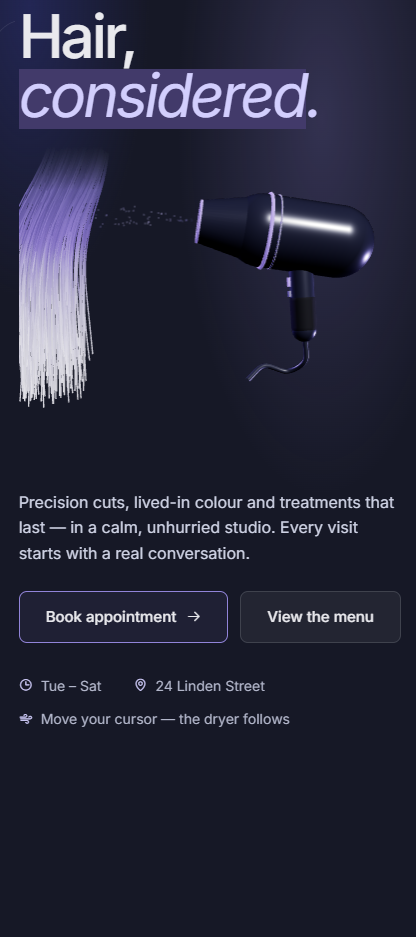
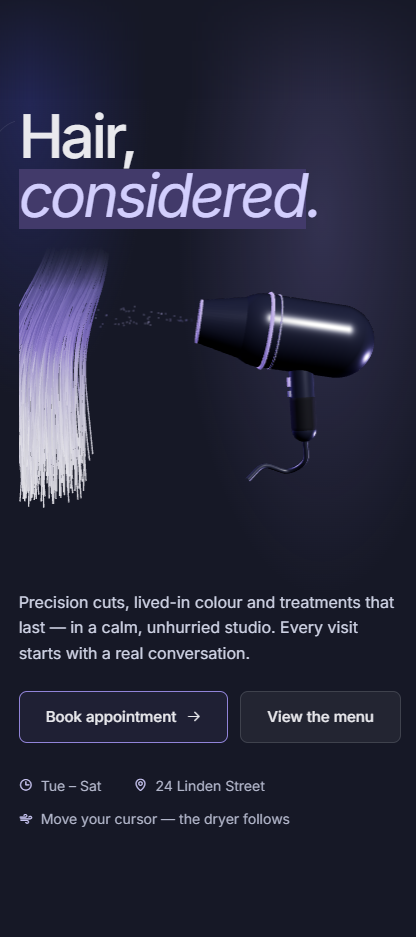
Session 1 follow-up: phone, mobile nav, arrows, shared footer, invoice card
Requested by Mihailo after reviewing the preview:
- Phone: lighter Kobalt shadow (8px). The screen background is now the
  ink colour, so the rounded corners no longer show a light fringe. The
  interim salon screenshot is re-composed with its content vertically
  centred (112 px above, 110 px below; the top extended from its first
  row with a soft fade).
- Mobile nav: between 421 and ~540 px the wordmark came back and pushed
  the CTA up to ~90 px off screen (clipped by .page, so no scrollbar).
  The compact nav (mark only, flags only) now applies up to 600 px, and
  the CTA arrow is dropped at 360 px and below (Serbian label at 320).
- Button arrows sit on the lowercase letters instead of the line box
  centre (Manrope +0.08em, Archivo +0.04em).
- Footer: the dark footer is now shared by both themes (moved to
  site.css); Industrial uses its own colours and the orange CTA. The
  offer label is bold (700). Removed the Industrial-only duplicates.
- Mobile container padding only sets the sides, so the privacy page no
  longer starts under the fixed nav at 640 px and below, and the footer
  rows keep their spacing.
- Invoice Generator card: Mihailo's dashboard screenshot (revenue and
  paid vs unpaid), since the live app needs a login.
- qa:themes: new check that nothing in the nav is outside the viewport
  at 320-900 px; privacy link click moved to the footer bottom bar.
- Docs: shared footer, invoice card decision, offer-highlight variants
[…]

diff --git a/src/styles/themes.css b/src/styles/themes.css
@@ -41,6 +41,7 @@
   --on-ink: #FFFFFF;
   --on-ink-muted: #C9D3EA;
   --on-ink-faint: #A3AECB;
+  --on-ink-line: rgba(255, 255, 255, 0.14);
 
   --accent: #2F5BFF;
   --accent-hover: #1F45E0;
@@ -107,6 +108,7 @@
   --on-ink: #F2F2EF;
   --on-ink-muted: #D4D4CE;
   --on-ink-faint: #B5B5AE;
+  --on-ink-line: rgba(242, 242, 239, 0.18);
 
   --accent: #FF4F00;
   --accent-hover: #E64700;
@@ -152,12 +154,16 @@
 /* The nav CTA is the one orange button. */
 .theme-industrial .nav__actions .mb-btn--primary { background: var(--accent); color: var(--ink); }
 .theme-industrial .nav__actions .mb-btn--primary:hover { background: var(--accent-hover); }
+/* Button arrows: centred on the lowercase letters, not on the line box
+   (Manrope's x-height sits ~0.08em below the box centre, Archivo's ~0.04em). */
+.theme-kobalt .mb-btn__icon { transform: translateY(0.08em); }
+.theme-industrial .mb-btn__icon { transform: translateY(0.04em); }
 
 /* --- Typography ------------------------------------------- */
-.theme-kobalt :is(.hero__title, .section__title, .legal__title, .offer__title, .work-card__name, .svc-card__price) {
+.theme-kobalt :is(.hero__title, .section__title, .legal__title, .offer__title, .work-card__name, .svc-card__price, .footer__cta-title) {
   font-weight: 800; letter-spacing: -0.035em;
 }
-.theme-industrial :is(.hero__title, .section__title, .legal__title, .offer__title, .own__title, .work-card__name) {
+.theme-industrial :is(.hero__title, .section__title, .legal__title, .offer__title, .own__title, .work-card__name, .footer__cta-title) {
   font-weight: 900; font-stretch: 74%; text-transform: uppercase; letter-spacing: -0.005em;
 }
 .theme-industrial .hero__title { line-height: 0.94; }
@@ -198,8 +204,8 @@
 /* --- Sections --------------------------------------------- */
 .theme-kobalt .hero, .theme-kobalt #work { background: var(--section-alt); }
 
-/* Phone frame: hard offset shadow (Kobalt at ~80% of Industrial's) */
-.theme-kobalt .phone { box-shadow: 11px 11px 0 var(--accent); }
+/* Phone frame: hard offset shadow (Kobalt lighter than Industrial's) */
+.theme-kobalt .phone { box-shadow: 8px 8px 0 var(--accent); }
 .theme-industrial .phone { box-shadow: 14px 14px 0 var(--accent); }
 
 /* Cards */
@@ -227,67 +233,6 @@
 .theme-kobalt .contact__channels small { font-size: 0.75rem; color: var(--text-faint); }
 
 /* --- Footer ----------------------------------------------- */
-/* Industrial keeps its original footer (site.css): the parts added for
-   Kobalt are in the DOM for both themes and hidden here. */
-.theme-industrial :is(.footer__cta, .footer__heading, .footer__extra, .footer__bottom) { display: none; }
-.theme-industrial .footer__group { display: contents; }
-
-/* Kobalt: dark footer — call to action, columns, bottom bar. */
-.theme-kobalt .footer {
-  --footer-line: rgba(255, 255, 255, 0.14);
-  --focus-ring: var(--accent-on-ink);
-  padding: 0; border-top: 0; background: var(--ink); color: var(--on-ink-muted);
-}
-/* Rows without side padding, so the dividing lines line up with the content */
-.theme-kobalt .footer > .container {
-  width: calc(100% - 2 * var(--space-6)); max-width: calc(var(--container-xl) - 2 * var(--space-6));
-  padding-left: 0; padding-right: 0;
-}
-.theme-kobalt .footer__cta {
-  display: flex; flex-wrap: wrap; align-items: center; justify-content: space-between; gap: var(--space-6);
-  padding: var(--space-9) 0 var(--space-8);
-}
-.theme-kobalt .footer__cta-title {
-  font: 800 clamp(1.75rem, 1.3rem + 1.6vw, 2.75rem)/1.08 var(--font-display); letter-spacing: -0.035em; color: var(--on-ink);
-}
-.theme-kobalt .footer__offer { margin-top: var(--space-3); font: var(--fw-regular) 1rem/1.5 var(--font-sans); color: var(--on-ink-muted); }
-.theme-kobalt .footer__offer b { font-weight: var(--fw-semibold); color: var(--accent-on-ink); }
-
-.theme-kobalt .footer__inner {
-  grid-template-columns: minmax(0, 1.25fr) minmax(0, 0.85fr) minmax(0, 1.5fr); gap: var(--space-8);
-  padding: var(--space-8) 0; border-top: 1px solid var(--footer-line);
-}
-.theme-kobalt .footer__brand .logo { color: var(--on-ink); }
-.theme-kobalt .footer .logo-mark__tile { fill: var(--on-ink); }
-.theme-kobalt .footer .logo-mark__letters { fill: var(--ink); }
-.theme-kobalt .footer__brand p { color: var(--on-ink-muted); }
-.theme-kobalt .footer__heading {
-  margin-bottom: 4px; font: var(--fw-medium) var(--text-xs)/1.4 var(--font-mono);
-  letter-spacing: 0.14em; text-transform: uppercase; color: var(--on-ink-faint);
-}
-.theme-kobalt .footer__meta { grid-template-columns: repeat(2, minmax(max-content, 1fr)); gap: var(--space-6); }
-.theme-kobalt .footer__group { display: grid; gap: 10px; align-content: start; justify-items: start; }
-.theme-kobalt :is(.footer__privacy, .footer__copy) { display: none; }
-.theme-kobalt .footer :is(.footer__links, .footer__meta, .footer__bottom) a { color: var(--on-ink-muted); transition: color var(--dur-fast); }
-.theme-kobalt .footer :is(.footer__links, .footer__meta, .footer__bottom) a:hover { color: var(--on-ink); }
-
-.theme-kobalt .footer .lang-switch { background: transparent; border-color: var(--footer-line); }
-.theme-kobalt .footer .lang-switch__opt { color: var(--on-ink-muted); }
-.theme-kobalt .footer .lang-switch__opt:hover { color: var(--on-ink); }
-.theme-kobalt .footer .lang-switch__opt.is-active { background: var(--on-ink); color: var(--ink); }
-
-.theme-kobalt .footer__bottom {
-  display: flex; flex-wrap: wrap; justify-content: space-between; gap: var(--space-2) var(--space-6);
-  padding: var(--space-5) 0 var(--space-6); border-top: 1px solid var(--footer-line);
-  font: var(--fw-regular) var(--text-sm)/1.4 var(--font-sans); color: var(--on-ink-faint);
-}
-
-@media (max-width: 760px) {
-  .theme-kobalt .footer__cta { padding: var(--space-8) 0 var(--space-7); }
-  .theme-kobalt .footer__inner { grid-template-columns: 1fr; gap: var(--space-6); padding: var(--space-7) 0; }
-  .theme-kobalt .footer__links { grid-template-columns: repeat(2, minmax(0, 1fr)); column-gap: var(--space-6); }
-  .theme-kobalt .footer__links .footer__heading { grid-column: 1 / -1; }
-}
-@media (max-width: 640px) {
-  .theme-kobalt .footer > .container { width: calc(100% - 2 * var(--space-4)); }
-}
+/* Layout and colours are shared (site.css); the CTA is the accent button on both themes. */
+.theme-industrial .footer .mb-btn--primary { background: var(--accent); color: var(--ink); border-color: var(--accent); }
+.theme-industrial .footer .mb-btn--primary:hover { background: var(--accent-hover); border-color: var(--accent-hover); }

diff --git a/src/styles/site.css b/src/styles/site.css
@@ -143,7 +143,7 @@ section[id], #main { scroll-margin-top: 76px; }
   width: min(290px, 100%); aspect-ratio: 9 / 19.5; padding: 10px;
   border-radius: 46px; background: var(--ink); box-shadow: var(--shadow-xl);
 }
-.phone__screen { width: 100%; height: 100%; border-radius: 36px; overflow: hidden; background: var(--surface-2); }
+.phone__screen { width: 100%; height: 100%; border-radius: 36px; overflow: hidden; background: var(--ink); }
 .phone__screen img { display: block; width: 100%; height: 100%; object-fit: cover; object-position: top; }
 
 /* --- Audience --------------------------------------------- */
@@ -313,14 +313,48 @@ section[id], #main { scroll-margin-top: 76px; }
 .legal__section p { margin-top: var(--space-3); font: var(--fw-regular) 1rem/1.7 var(--font-sans); color: var(--text-secondary); }
 
 /* --- Footer ----------------------------------------------- */
-.footer { padding: var(--space-8) 0 var(--space-7); border-top: 1px solid var(--border-default); background: var(--bg-raised); }
-.footer__inner { display: grid; grid-template-columns: 1.3fr 1fr 1fr; gap: var(--space-6); }
-.footer__brand .logo { color: var(--text-primary); }
-.footer__brand p { margin-top: var(--space-3); max-width: 280px; font: var(--fw-regular) var(--text-sm)/1.5 var(--font-sans); color: var(--text-secondary); }
-.footer__links, .footer__meta { display: grid; gap: 10px; align-content: start; justify-items: start; font: var(--fw-regular) var(--text-sm)/1.4 var(--font-sans); }
-.footer__links a, .footer__meta a { color: var(--text-secondary); }
-.footer__links a:hover, .footer__meta a:hover { color: var(--text-primary); }
-.footer__meta > span { color: var(--text-muted); }
+/* Dark band: call to action, columns, bottom bar. */
+.footer { --focus-ring: var(--accent-on-ink); background: var(--ink); color: var(--on-ink-muted); }
+/* Rows without side padding, so the dividing lines line up with the content */
+.footer > .container {
+  width: calc(100% - 2 * var(--space-6)); max-width: calc(var(--container-xl) - 2 * var(--space-6));
+  padding-left: 0; padding-right: 0;
+}
+.footer > .footer__cta {
+  display: flex; flex-wrap: wrap; align-items: center; justify-content: space-between; gap: var(--space-6);
+  padding: var(--space-9) 0 var(--space-8);
+}
+.footer__cta-title { font: var(--fw-semibold) clamp(1.75rem, 1.3rem + 1.6vw, 2.75rem)/1.08 var(--font-display); letter-spacing: -0.025em; color: var(--on-ink); }
+.footer__offer { margin-top: var(--space-3); font: var(--fw-regular) 1rem/1.5 var(--font-sans); color: var(--on-ink-muted); }
+.footer__offer b { font-weight: var(--fw-bold); color: var(--accent-on-ink); }
+
+.footer > .footer__inner {
+  display: grid; grid-template-columns: minmax(0, 1.25fr) minmax(0, 0.85fr) minmax(0, 1.5fr); gap: var(--space-8);
+  padding: var(--space-8) 0; border-top: 1px solid var(--on-ink-line);
+}
+.footer__brand .logo { color: var(--on-ink); }
+.footer .logo-mark__tile { fill: var(--on-ink); }
+.footer .logo-mark__letters { fill: var(--ink); }
+.footer__brand p { margin-top: var(--space-3); max-width: 280px; font: var(--fw-regular) var(--text-sm)/1.5 var(--font-sans); color: var(--on-ink-muted); }
+.footer__heading {
+  margin-bottom: 4px; font: var(--fw-medium) var(--text-xs)/1.4 var(--font-mono);
+  letter-spacing: 0.14em; text-transform: uppercase; color: var(--on-ink-faint);
+}
+.footer__links, .footer__group { display: grid; gap: 10px; align-content: start; justify-items: start; font: var(--fw-regular) var(--text-sm)/1.4 var(--font-sans); }
+.footer__meta { display: grid; grid-template-columns: repeat(2, minmax(max-content, 1fr)); gap: var(--space-6); align-content: start; }
+.footer__links a, .footer__group > a, .footer__bottom a { color: var(--on-ink-muted); transition: color var(--dur-fast); }
+.footer__links a:hover, .footer__group > a:hover, .footer__bottom a:hover { color: var(--on-ink); }
+
+.footer .lang-switch { background: transparent; border-color: var(--on-ink-line); }
+.footer .lang-switch__opt { color: var(--on-ink-muted); }
+.footer .lang-switch__opt:hover { color: var(--on-ink); }
+.footer .lang-switch__opt.is-active { background: var(--on-ink); color: var(--ink); }
+
+.footer > .footer__bottom {
+  display: flex; flex-wrap: wrap; justify-content: space-between; gap: var(--space-2) var(--space-6);
+  padding: var(--space-5) 0 var(--space-6); border-top: 1px solid var(--on-ink-line);
+  font: var(--fw-regular) var(--text-sm)/1.4 var(--font-sans); color: var(--on-ink-faint);
+}
 
 /* --- Responsive ------------------------------------------- */
 @media (max-width: 1080px) {
@@ -346,18 +380,26 @@ section[id], #main { scroll-margin-top: 76px; }
 @media (max-width: 760px) {
   .section { padding: var(--space-9) 0; }
   .steps, .svc-details, .split { grid-template-columns: 1fr; }
-  .footer__inner { grid-template-columns: 1fr; }
+  .footer > .footer__cta { padding: var(--space-8) 0 var(--space-7); }
+  .footer > .footer__inner { grid-template-columns: 1fr; gap: var(--space-6); padding: var(--space-7) 0; }
+  .footer__links { grid-template-columns: repeat(2, minmax(0, 1fr)); column-gap: var(--space-6); }
+  .footer__links .footer__heading { grid-column: 1 / -1; }
   .offer { padding: var(--space-6); }
 }
 @media (max-width: 640px) {
-  .container, .nav__inner { padding: 0 var(--space-4); }
+  .container, .nav__inner { padding-left: var(--space-4); padding-right: var(--space-4); }  /* sides only: .legal and the footer rows keep their vertical padding */
+  .footer > .container { width: calc(100% - 2 * var(--space-4)); }
   .nav__inner { gap: var(--space-3); }
   .audience, .work-grid, .contact__row { grid-template-columns: 1fr; }
   .svc-card, .svc-box, .split__col, .contact__aside { padding: var(--space-5); }
   .own { padding: var(--space-6) var(--space-4); }
 }
-@media (max-width: 420px) {
+/* Compact nav: the wordmark and language codes need ~540px next to the CTA. */
+@media (max-width: 600px) {
   .nav .logo__word { display: none; }
   .nav .lang-switch__code { display: none; }
   .nav .lang-switch__opt { padding: 7px 8px; }
+}
+@media (max-width: 360px) {
+  .nav__actions .mb-btn__icon { display: none; }
 }

diff --git a/src/components/Footer.tsx b/src/components/Footer.tsx
@@ -6,9 +6,6 @@ import { Logo } from "./Logo";
 import { OFFER } from "../data/pricing";
 import { PATHS, sectionHref, useLocale } from "../i18n";
 
-/* TEMP (two themes): Kobalt shows the call to action, column headings,
-   Viber/WhatsApp and the bottom bar; Industrial hides them in themes.css
-   and keeps its original footer. The DOM is the same for both themes. */
 export function Footer() {
   const { locale, page, t } = useLocale();
   const href = (id: string) => sectionHref(locale, page, id);
@@ -39,26 +36,18 @@ export function Footer() {
           <a href={href("process")}>{t.nav.process}</a>
           <a href={href("faq")}>{t.nav.faq}</a>
           <a href={href("contact")}>{t.contact.eyebrow}</a>
-          <a className="footer__privacy" href={PATHS[locale].privacy}>
-            {t.footer.privacy}
-          </a>
         </nav>
         <div className="footer__meta">
           <div className="footer__group">
             <p className="footer__heading">{t.contact.eyebrow}</p>
             <ContactLink kind="email">{t.contact.email}</ContactLink>
-            <ContactLink kind="viber" className="footer__extra">
-              {t.contact.viber}
-            </ContactLink>
-            <ContactLink kind="whatsapp" className="footer__extra">
-              {t.contact.whatsapp}
-            </ContactLink>
+            <ContactLink kind="viber">{t.contact.viber}</ContactLink>
+            <ContactLink kind="whatsapp">{t.contact.whatsapp}</ContactLink>
           </div>
           <div className="footer__group">
             <p className="footer__heading">{t.nav.langLabel}</p>
             <LangSwitch />
           </div>
-          <span className="footer__copy">{t.footer.copy}</span>
         </div>
       </div>
       <div className="container footer__bottom">

diff --git a/CLAUDE.md b/CLAUDE.md
@@ -80,7 +80,7 @@ Read this first in every session. The plan of work, one session per item, is in 
   - scope the CSS with `.theme-kobalt …` / `.theme-industrial …`
   - the DOM must still be identical, because the HTML is prerendered once
   - extra elements exist in both themes and are hidden with CSS in the other one
-- **Kobalt-only so far** (session 1): uppercase hero title with a marker accent, a hard phone shadow, quieter contact hints, and a dark footer (call to action, column headings, Viber/WhatsApp, bottom bar). Industrial hides the extra footer parts and keeps its original footer; the footer is outside `<main>`, so its height differs between the themes.
+- **Kobalt-only so far** (session 1): uppercase Manrope hero title with a marker accent, a lighter hard phone shadow (8px; Industrial 14px), quieter contact hints. The dark footer (call to action, column headings, Viber/WhatsApp, bottom bar) is shared by both themes.
 - **Geometry check:** `qa:themes` compares the themes inside `<main>`: same DOM, section order and grid columns; section heights within 15%. A deliberate difference must be stated in the PR.
 
 ## Branches, previews, PRs
@@ -107,7 +107,7 @@ npm install
 npm run build                    # tsc + build + prerender; lists placeholders left
 npm run qa:leak                  # contact data in dist/? (no browser needed)
 npm run preview                  # serves dist/ on :4173 — run it in the background for the checks below
-npm run qa:themes                # both themes: CLS, overflow, console, geometry, theme propagation, contacts, contrast, focus (~1 min)
+npm run qa:themes                # both themes: CLS, overflow, console, geometry, nav fits 320–900 px, theme propagation, contacts, contrast, focus (~2 min)
 npm run qa:site                  # no-JS, reduced motion, keyboard, FAQ, anchors, language switch, links
 npm run qa:shots -- pages=/,/sr/ widths=375,1440 viewport=1   # screenshots → .qa/ (git-ignored); see the header of scripts/qa/shots.mjs
 node scripts/qa/form.mjs nokey   # form states, build without a Web3Forms key
@@ -115,7 +115,7 @@ VITE_WEB3FORMS_ACCESS_KEY=test npm run build && node scripts/qa/form.mjs key   #
 ```
 - **Look at the screenshots** (open the PNGs) before calling a visual change done. Check 320, 375 and 1440 px, both themes, `/` and `/sr/`; Serbian text is longer.
 - **Baseline** (start of the roadmap):
-  - no horizontal overflow, clean console
+  - no horizontal overflow, clean console; nothing in the nav outside the viewport (`.page` clips overflow, so it would not show as a scrollbar)
   - geometry identical
   - contacts clean
   - lowest contrast 4.68 (Kobalt: the contact hints, deliberately quieter since session 1) / 4.80 (Industrial); keep small text at **≥ 4.5**. Elements hidden in a theme are skipped.
@@ -128,7 +128,7 @@ VITE_WEB3FORMS_ACCESS_KEY=test npm run build && node scripts/qa/form.mjs key   #
 - **Network:** the environment uses a custom allowlist.
   - Allowed (since 4 Oct 2026): `*.mihailobuilds.com` (the live projects, for screenshots), the GitHub API, Google Fonts, npm.
   - Blocked: `vercel.com` and `*.vercel.app`. Run QA locally against `npm run preview` and get the preview URL from the GitHub deployments API. Mihailo can add `*.vercel.app` if a session ever needs to open the preview itself.
-  - `invoice.mihailobuilds.com` redirects to `/login`. Never log in with a real account or create one; ask Mihailo what to show.
+  - `invoice.mihailobuilds.com` redirects to `/login`. Never log in with a real account or create one. Its card uses Mihailo's own dashboard screenshot (`public/projects/invoice.png`).
 
 ## Conventions
 - **CSS:** use theme variables and tokens; no raw colours in `site.css`. Theme-specific rules go in `themes.css`.

diff --git a/docs/ROADMAP.md b/docs/ROADMAP.md
@@ -39,11 +39,14 @@ Statuse ažurira sesija koja završi posao: `todo` → `u toku` → `PR otvoren`
 ## Odluke koje čekaju Mihaila
 
 - **Tema:** Kobalt ili Industrial (posle sesija 1–3 i 6).
+- **Isticanje posebne ponude** (sesija 2), Mihailo je dobio snimke tri varijante:
+  1. traka u boji akcenta iznad navigacije, fiksirana zajedno sa njom
+  2. tamna plutajuća kartica pri dnu ekrana (levo na desktopu, preko cele širine na mobilnom), kad se skroluje ispod heroja
+  3. istaknuto dugme „Special offer" u navigaciji; na mobilnom traka u boji akcenta iznad naslova u heroju
 - **Font za Industrial** (sesija 6).
 - **Cene:** redovne, posebne i održavanje (posle sesije 4).
 - **Fotografija** za „O meni".
 - **Domen:** potvrda da je `mihailobuilds.com` konačan.
-- **Invoice kartica:** šta prikazati, jer sajt odmah vodi na `/login` (sesija 3).
 
 ---
 
@@ -85,7 +88,8 @@ Repo stanovljanac/portfolio. Pre svega: git fetch origin claude/loving-noether-c
   - Prikazuje se samo dok je `OFFER.open`. Nema dugme za zatvaranje.
   - Na mobilnom je to glavni ulaz, jer su linkovi navigacije ispod 900 px sakriveni.
 - **Stavka u navigaciji:** „Offer" / „Ponuda", sa malim bedžom ili akcentom, takođe vodi na `#offer`.
-- **Podsetnik u Kobalt footeru** (`.footer__offer`, iz sesije 1) je za sada običan tekst; neka i on postane link na `#offer`.
+- **Varijanta isticanja:** uradi onu koju je Mihailo izabrao (vidi „Odluke koje čekaju Mihaila"); ako je to varijanta 2 ili 3, ona zamenjuje traku i stavku iz ovog spiska.
+- **Podsetnik u footeru** (`.footer__offer`, iz sesije 1) je za sada običan tekst; neka i on postane link na `#offer`.
 - Tekst ide u i18n (`en.ts`/`sr.ts`) i ne obećava ništa van ponude: samo niža cena za osnovnu izradu, sledeća 3 projekta.
 - Traka i navigacija ne smeju da izazovu horizontalni skrol ni na 320 px, niti da pomere sadržaj posle učitavanja.
 
@@ -109,7 +113,7 @@ Repo stanovljanac/portfolio. Pre svega: git fetch origin claude/loving-noether-c
 - **Mobilni:** 390×844, DPR 3.
 - Vrh stranice sa navigacijom, bez kursora i bez otvorenih menija.
 
-**Invoice Generator:** `invoice.mihailobuilds.com` odmah preusmerava na `/login`. Pre snimanja pitaj Mihaila šta kartica treba da prikaže: login stranu, demo stanje ili njegov snimak. Ne prijavljuj se pravim nalogom i ne pravi nalog.
+**Invoice Generator:** `invoice.mihailobuilds.com` odmah preusmerava na `/login`. Mihailo je odlučio (sesija 1): kartica prikazuje **njegov snimak Dashboard-a** (prihod + plaćeno/neplaćeno), sada u `public/projects/invoice.png` (1193×748). Ovaj sajt se ne snima; snimak samo ide u isti okvir i format kao ostali. Ne prijavljuj se pravim nalogom i ne pravi nalog.
 
 **Obim:**
 - **Snimanje** Playwright-om, za sva 4 sajta (MB Hair Salon, Keeper, The Automation Desk, Invoice Generator):
